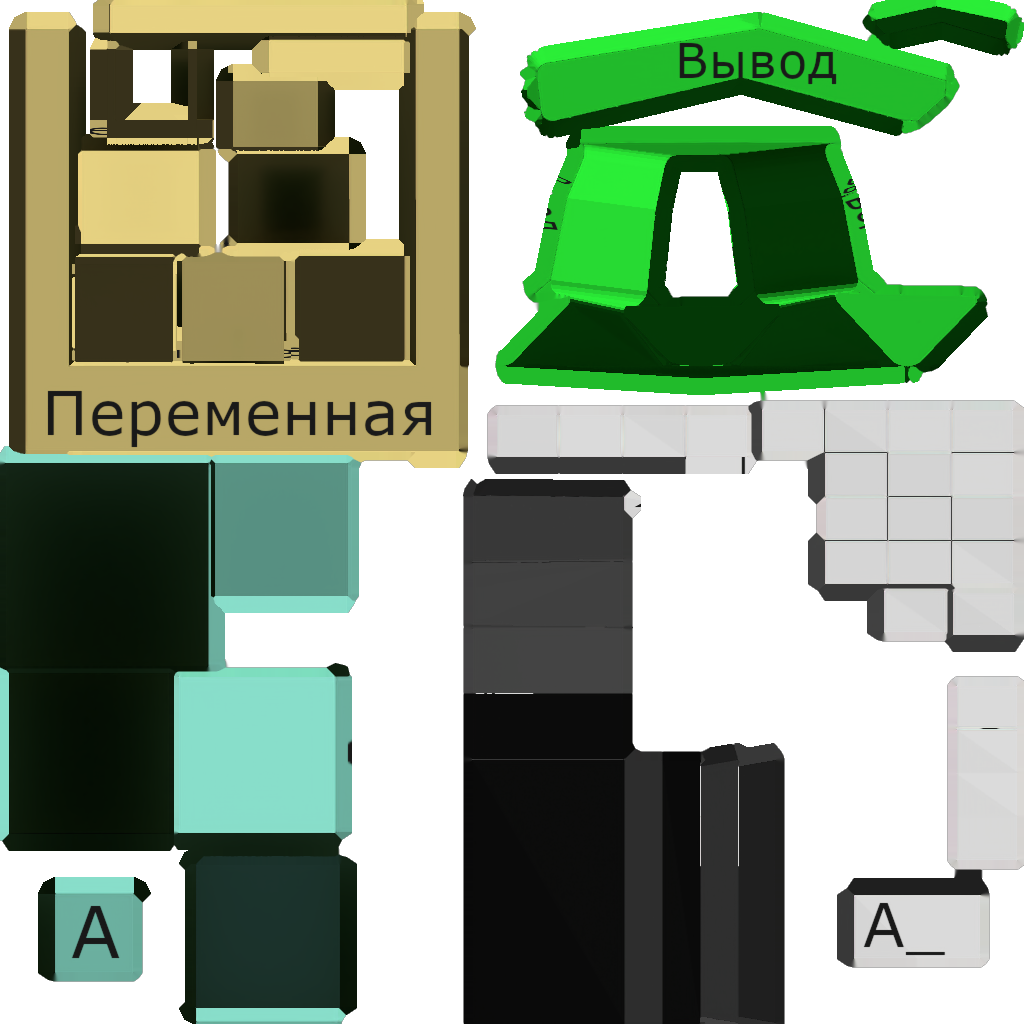
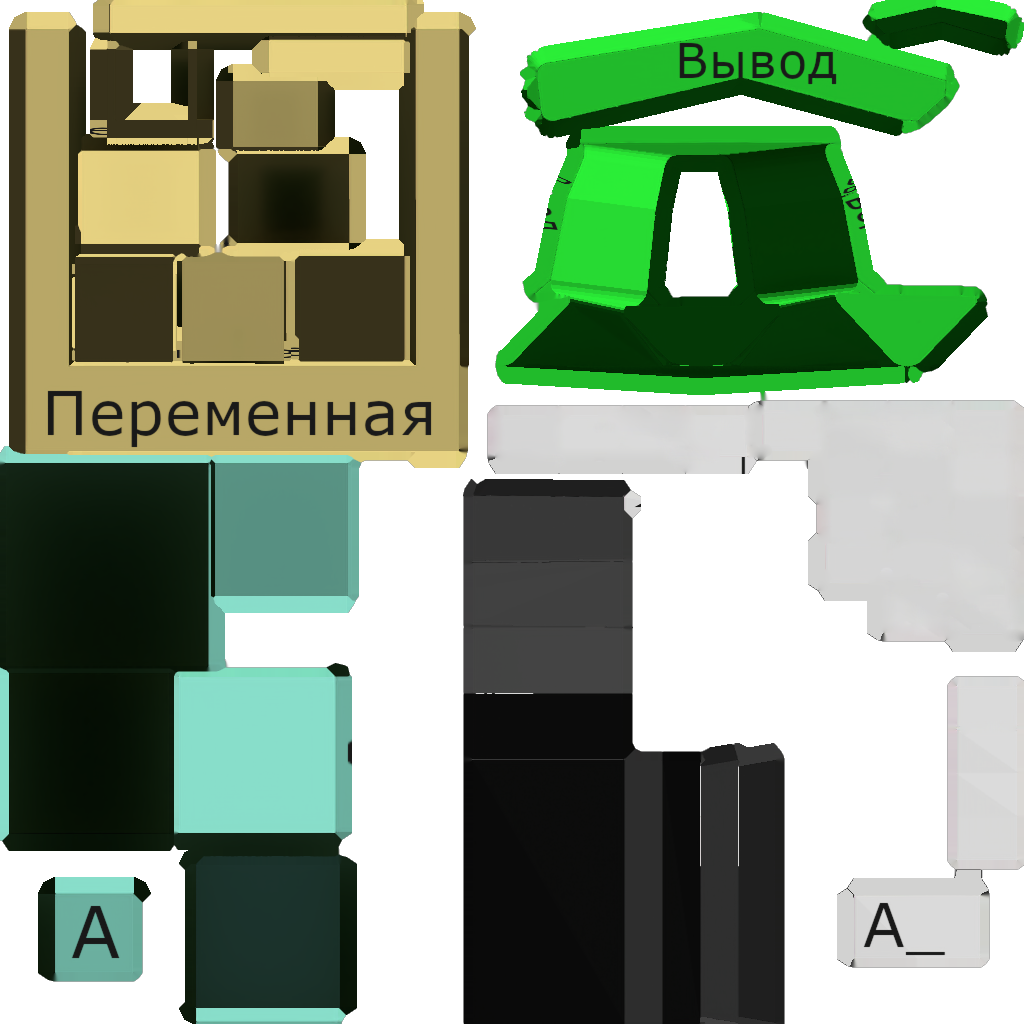
Minor bug fixes update

diff --git a/Scripts/lessons.cs b/Scripts/lessons.cs
@@ -7,8 +7,8 @@ public class lessons : MonoBehaviour
 	private int index;
 	public Text title, para_alg, para_python, para_c, code_para_alg, code_para_python, code_para_c;
 	public Text c_title, c_para_alg, c_para_python, c_para_c, c_code_para_alg, c_code_para_python, c_code_para_c;
-	public GameObject code_plate, python, c;
-	public GameObject c_code_plate, c_python, c_c;
+	public GameObject code_plate, alg, python, c;
+	public GameObject c_code_plate, c_alg, c_python, c_c;
 	public Button prev, next;
 	
 	public MeshFilter model, c_model;
@@ -76,9 +76,13 @@ public class lessons : MonoBehaviour
 		}
 		else if (i == 7)
 		{
-			code_disabled = true;
 			title.text = "Оператор присваивания";
-			para_alg.text = "Основное преобразование данных, выполняемое компьютером, - присваивание переменной нового значения, что означает изменение содержимого области памяти; оно осуществляется оператором присваивания, аналогичным команде присваивания алгоритмического языка. Общий вид оператора:\n<имя переменной> = <выражение>";
+			para_alg.text = "Основное преобразование данных, выполняемое компьютером, - присваивание переменной нового значения, что означает изменение содержимого области памяти; оно осуществляется оператором присваивания, аналогичным команде присваивания алгоритмического языка.";
+			code_para_alg.text = "В Школьном алгоритмическом языке ситаксис оператора присваивания выглядит так:\n*переменная* := *выражение*";
+			para_python.text = "Основное преобразование данных, выполняемое компьютером, - присваивание переменной нового значения, что означает изменение содержимого области памяти; оно осуществляется оператором присваивания, аналогичным команде присваивания алгоритмического языка.";
+			code_para_python.text = "В Python ситаксис оператора присваивания выглядит так:\n*переменная* = *выражение*";
+			para_c.text = "Основное преобразование данных, выполняемое компьютером, - присваивание переменной нового значения, что означает изменение содержимого области памяти; оно осуществляется оператором присваивания, аналогичным команде присваивания алгоритмического языка.";
+			code_para_c.text = "В C++ ситаксис оператора присваивания выглядит так:\n*переменная* = *выражение*";
 		}
 		else if (i == 8)
 		{
@@ -106,9 +110,9 @@ public class lessons : MonoBehaviour
 			para_alg.text = "Условный оператор - это конструкция в языке программирования, которая позволяет выбрать один из возможных путей выполнения программы в зависимости от истинности или ложности некоторого условия.";
 			code_para_alg.text = "нач\nесли *условие* то\n\t*действие 1*\nиначе\n\t*действие 2*\nкон";
 			para_python.text = "Условный оператор - это конструкция в языке программирования, которая позволяет выбрать один из возможных путей выполнения программы в зависимости от истинности или ложности некоторого условия.";
-			code_para_python.text = "if *условие*:\n\t*дейстие 1*\nelif *другое условие*:\n\t*действие 2*\nelse:\n\t*действие 3*";
+			code_para_python.text = "if *условие*:\n\t*дейстие 1*\nelse:\n\t*действие 2*";
 			para_c.text = "Условный оператор - это конструкция в языке программирования, которая позволяет выбрать один из возможных путей выполнения программы в зависимости от истинности или ложности некоторого условия.";
-			code_para_c.text = "if (*условие*)\n{\n\t*действие 1*;\n}\nelif (*другое условие*)\n{\n\t*действие 2*;\n}\nelse\n{\n\t*действие 3*;\n}";
+			code_para_c.text = "if (*условие*)\n{\n\t*действие 1*;\n}else\n{\n\t*действие 2*;\n}";
 		}
 		else if (i == 11)
 		{
@@ -131,14 +135,25 @@ public class lessons : MonoBehaviour
 		if (code_disabled)
 		{
 			code_plate.SetActive(false);
+			alg.SetActive(false);
 			python.SetActive(false);
 			c.SetActive(false);
+			
+			para_python.text = para_alg.text;
+			para_c.text = para_alg.text;
+			
+			para_alg.transform.localPosition = new Vector3(0, -6.212f, 0);
+			para_alg.rectTransform.sizeDelta = new Vector2(880, 692.42f);
 		}
 		else
 		{
 			code_plate.SetActive(true);
+			alg.SetActive(true);
 			python.SetActive(true);
 			c.SetActive(true);
+			
+			para_alg.transform.localPosition = new Vector3(0, 170, 0);
+			para_alg.rectTransform.sizeDelta = new Vector2(880, 340);
 		}
 		
 		Set_Article_Model(i);
@@ -202,9 +217,13 @@ public class lessons : MonoBehaviour
 		}
 		else if (i == 7)
 		{
-			code_disabled = true;
 			c_title.text = "Оператор присваивания";
-			c_para_alg.text = "Основное преобразование данных, выполняемое компьютером, - присваивание переменной нового значения, что означает изменение содержимого области памяти; оно осуществляется оператором присваивания, аналогичным команде присваивания алгоритмического языка. Общий вид оператора:\n<имя переменной> = <выражение>";
+			c_para_alg.text = "Основное преобразование данных, выполняемое компьютером, - присваивание переменной нового значения, что означает изменение содержимого области памяти; оно осуществляется оператором присваивания, аналогичным команде присваивания алгоритмического языка.";
+			c_code_para_alg.text = "В Школьном алгоритмическом языке ситаксис оператора присваивания выглядит так:\n*переменная* := *выражение*";
+			c_para_python.text = "Основное преобразование данных, выполняемое компьютером, - присваивание переменной нового значения, что означает изменение содержимого области памяти; оно осуществляется оператором присваивания, аналогичным команде присваивания алгоритмического языка.";
+			c_code_para_python.text = "В Python ситаксис оператора присваивания выглядит так:\n*переменная* = *выражение*";
+			c_para_c.text = "Основное преобразование данных, выполняемое компьютером, - присваивание переменной нового значения, что означает изменение содержимого области памяти; оно осуществляется оператором присваивания, аналогичным команде присваивания алгоритмического языка.";
+			c_code_para_c.text = "В C++ ситаксис оператора присваивания выглядит так:\n*переменная* = *выражение*";
 		}
 		else if (i == 8)
 		{
@@ -232,9 +251,9 @@ public class lessons : MonoBehaviour
 			c_para_alg.text = "Условный оператор - это конструкция в языке программирования, которая позволяет выбрать один из возможных путей выполнения программы в зависимости от истинности или ложности некоторого условия.";
 			c_code_para_alg.text = "нач\nесли *условие* то\n\t*действие 1*\nиначе\n\t*действие 2*\nкон";
 			c_para_python.text = "Условный оператор - это конструкция в языке программирования, которая позволяет выбрать один из возможных путей выполнения программы в зависимости от истинности или ложности некоторого условия.";
-			c_code_para_python.text = "if *условие*:\n\t*дейстие 1*\nelif *другое условие*:\n\t*действие 2*\nelse:\n\t*действие 3*";
+			c_code_para_python.text = "if *условие*:\n\t*дейстие 1*\nelse:\n\t*действие 2*";
 			c_para_c.text = "Условный оператор - это конструкция в языке программирования, которая позволяет выбрать один из возможных путей выполнения программы в зависимости от истинности или ложности некоторого условия.";
-			c_code_para_c.text = "if (*условие*)\n{\n\t*действие 1*;\n}\nelif (*другое условие*)\n{\n\t*действие 2*;\n}\nelse\n{\n\t*действие 3*;\n}";
+			c_code_para_c.text = "if (*условие*)\n{\n\t*действие 1*;\n}else\n{\n\t*действие 2*;\n}";
 		}
 		else if (i == 11)
 		{
@@ -257,14 +276,25 @@ public class lessons : MonoBehaviour
 		if (code_disabled)
 		{
 			c_code_plate.SetActive(false);
+			c_alg.SetActive(false);
 			c_python.SetActive(false);
 			c_c.SetActive(false);
+			
+			c_para_python.text = c_para_alg.text;
+			c_para_c.text = c_para_alg.text;
+			
+			c_para_alg.transform.localPosition = new Vector3(0, -6.212f, 0);
+			c_para_alg.rectTransform.sizeDelta = new Vector2(880, 692.42f);
 		}
 		else
 		{
 			c_code_plate.SetActive(true);
+			c_alg.SetActive(true);
 			c_python.SetActive(true);
 			c_c.SetActive(true);
+			
+			c_para_alg.transform.localPosition = new Vector3(0, 170, 0);
+			c_para_alg.rectTransform.sizeDelta = new Vector2(880, 340);
 		}
 		
 		Set_Article_Model_Copy(i);
